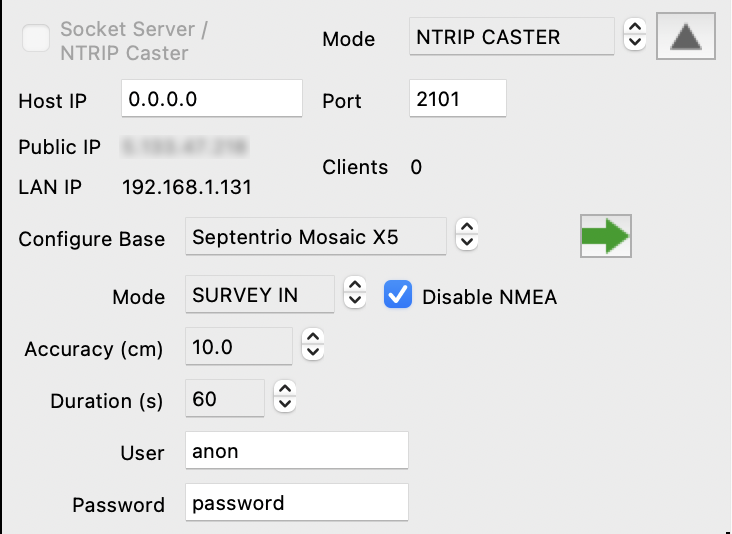
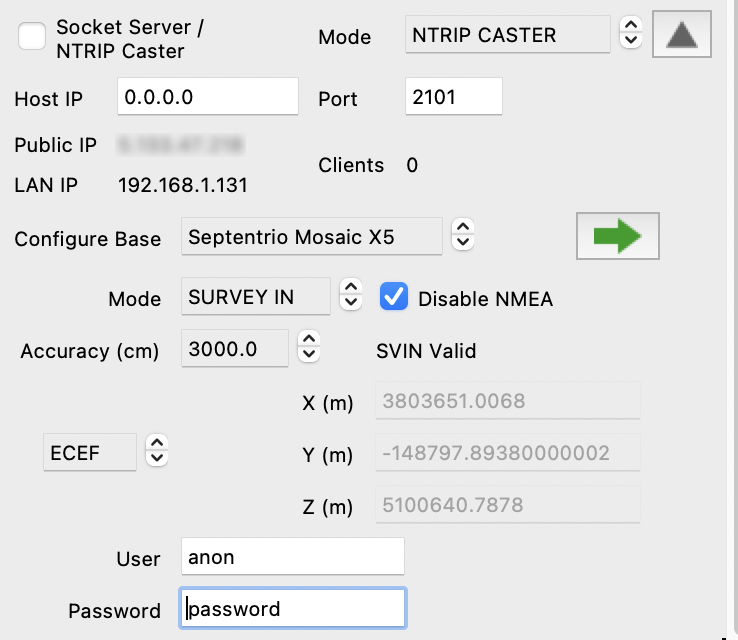
add base station location update

diff --git a/src/pygpsclient/serverconfig_frame.py b/src/pygpsclient/serverconfig_frame.py
@@ -41,7 +41,7 @@ from tkinter.ttk import Progressbar
 
 from PIL import Image, ImageTk
 from pygnssutils import RTCMTYPES
-from pynmeagps import SET, NMEAMessage, llh2ecef
+from pynmeagps import SET, NMEAMessage, ecef2llh, llh2ecef
 from pyubx2 import UBXMessage
 
 from pygpsclient.globals import (
@@ -159,7 +159,7 @@ class ServerConfigFrame(Frame):
         self.pos_mode = StringVar()
         self.fixedlat = DoubleVar()
         self.fixedlon = DoubleVar()
-        self.fixedalt = DoubleVar()
+        self.fixedhae = DoubleVar()
         self.disable_nmea = IntVar()
         self.user = StringVar()
         self.password = StringVar()
@@ -169,7 +169,7 @@ class ServerConfigFrame(Frame):
         self._sock_port_temp = SOCKSERVER_PORT
         self._fixed_lat_temp = 0
         self._fixed_lon_temp = 0
-        self._fixed_alt_temp = 0
+        self._fixed_hae_temp = 0
         self._pending_confs = {}
         self._quectel_restart = 0  # keep track of Quectel receiver restarts
 
@@ -382,13 +382,13 @@ class ServerConfigFrame(Frame):
             relief="sunken",
             width=18,
         )
-        self._lbl_fixedalt = Label(
+        self._lbl_fixedhae = Label(
             self._frm_advanced,
             text="Height (m)",
         )
-        self._ent_fixedalt = Entry(
+        self._ent_fixedhae = Entry(
             self._frm_advanced,
-            textvariable=self.fixedalt,
+            textvariable=self.fixedhae,
             relief="sunken",
             width=18,
         )
@@ -441,7 +441,7 @@ class ServerConfigFrame(Frame):
         self._on_posmode(None, None, "write")
         self.fixedlat.set(cfg.get("ntripcasterfixedlat_f"))
         self.fixedlon.set(cfg.get("ntripcasterfixedlon_f"))
-        self.fixedalt.set(cfg.get("ntripcasterfixedalt_f"))
+        self.fixedhae.set(cfg.get("ntripcasterfixedalt_f"))
         self.disable_nmea.set(cfg.get("ntripcasterdisablenmea_b"))
         self.sock_host.set(cfg.get("sockhost_s"))
         self._lbl_publicip.config(text=publicip())
@@ -453,7 +453,7 @@ class ServerConfigFrame(Frame):
         self._sock_port_temp = self.sock_port.get()
         self._fixed_lat_temp = self.fixedlat.get()
         self._fixed_lon_temp = self.fixedlon.get()
-        self._fixed_alt_temp = self.fixedalt.get()
+        self._fixed_hae_temp = self.fixedhae.get()
         self._bind_events(True)
 
     def _attach_events(self):
@@ -495,7 +495,7 @@ class ServerConfigFrame(Frame):
             self.duration,
             self.fixedlat,
             self.fixedlon,
-            self.fixedalt,
+            self.fixedhae,
             self.disable_nmea,
             self.user,
             self.password,
@@ -519,7 +519,7 @@ class ServerConfigFrame(Frame):
             cfg.set("ntripcasterduration_n", int(self.duration.get()))
             cfg.set("ntripcasterfixedlat_f", float(self.fixedlat.get()))
             cfg.set("ntripcasterfixedlon_f", float(self.fixedlon.get()))
-            cfg.set("ntripcasterfixedalt_f", float(self.fixedalt.get()))
+            cfg.set("ntripcasterfixedalt_f", float(self.fixedhae.get()))
             cfg.set("ntripcasterdisablenmea_b", self.disable_nmea.get())
             cfg.set("sockhost_s", self.sock_host.get())
             cfg.set("sockport_n", int(self.sock_port.get()))
@@ -567,7 +567,7 @@ class ServerConfigFrame(Frame):
             valid = valid & valid_entry(self._ent_sockport, VALINT, 1, MAXPORT)
             valid = valid & valid_entry(self._ent_fixedlat, VALFLOAT)
             valid = valid & valid_entry(self._ent_fixedlon, VALFLOAT)
-            valid = valid & valid_entry(self._ent_fixedalt, VALFLOAT)
+            valid = valid & valid_entry(self._ent_fixedhae, VALFLOAT)
             if valid:
                 self.__app.set_status("", INFOCOL)
             else:
@@ -580,7 +580,7 @@ class ServerConfigFrame(Frame):
             self._sock_port_temp = self.sock_port.get()
             self._fixed_lat_temp = self.fixedlat.get()
             self._fixed_lon_temp = self.fixedlon.get()
-            self._fixed_alt_temp = self.fixedalt.get()
+            self._fixed_hae_temp = self.fixedhae.get()
         else:  # stop server
             self.__app.stop_sockserver_thread()
             self.__app.stream_handler.sock_serve = False
@@ -601,11 +601,8 @@ class ServerConfigFrame(Frame):
             self._chk_disablenmea,
             self._spn_posmode,
             self._lbl_fixedlat,
-            self._ent_fixedlat,
             self._lbl_fixedlon,
-            self._ent_fixedlon,
-            self._lbl_fixedalt,
-            self._ent_fixedalt,
+            self._lbl_fixedhae,
             self._lbl_user,
             self._ent_user,
             self._lbl_password,
@@ -615,6 +612,16 @@ class ServerConfigFrame(Frame):
                 state = DISABLED
             else:
                 state = READONLY if isinstance(wid, Spinbox) else NORMAL
+            wid.config(state=state)
+        for wid in (
+            self._ent_fixedlat,
+            self._ent_fixedlon,
+            self._ent_fixedhae,
+        ):
+            if self._socket_serve.get():
+                state = DISABLED
+            else:
+                state = READONLY if self.base_mode.get() == BASE_SVIN else NORMAL
             wid.config(state=state)
         for wid in (self._btn_configure_base,):
             if self._socket_serve.get():
@@ -689,21 +696,19 @@ class ServerConfigFrame(Frame):
         self._lbl_acclimit.grid(column=0, row=2, padx=2, pady=1, sticky=E)
         self._spn_acclimit.grid(column=1, row=2, padx=2, pady=1, sticky=W)
         self._chk_disablenmea.grid(column=2, row=1, padx=2, pady=1, sticky=W)
-        self._lbl_duration.grid(column=0, row=3, padx=2, pady=1, sticky=E)
-        self._spn_duration.grid(column=1, row=3, padx=2, pady=1, sticky=W)
-        self._lbl_elapsed.grid(column=2, row=3, columnspan=2, padx=2, pady=1, sticky=W)
-        self._lbl_user.grid(column=0, row=4, padx=2, pady=1, sticky=E)
-        self._ent_user.grid(column=1, row=4, columnspan=2, padx=2, pady=1, sticky=W)
-        self._lbl_password.grid(column=0, row=5, padx=2, pady=1, sticky=E)
-        self._ent_password.grid(column=1, row=5, columnspan=2, padx=2, pady=1, sticky=W)
-        self._pgb_elapsed.grid_forget()
-        self._spn_posmode.grid_forget()
-        self._lbl_fixedlat.grid_forget()
-        self._ent_fixedlat.grid_forget()
-        self._lbl_fixedlon.grid_forget()
-        self._ent_fixedlon.grid_forget()
-        self._lbl_fixedalt.grid_forget()
-        self._ent_fixedalt.grid_forget()
+        self._spn_posmode.grid(column=0, row=3, rowspan=3, padx=2, pady=1, sticky=E)
+        self._lbl_fixedlat.grid(column=1, row=3, padx=2, pady=1, sticky=E)
+        self._ent_fixedlat.grid(column=2, row=3, columnspan=3, padx=2, pady=1, sticky=W)
+        self._lbl_fixedlon.grid(column=1, row=4, padx=2, pady=1, sticky=E)
+        self._ent_fixedlon.grid(column=2, row=4, columnspan=3, padx=2, pady=1, sticky=W)
+        self._lbl_fixedhae.grid(column=1, row=5, padx=2, pady=1, sticky=E)
+        self._ent_fixedhae.grid(column=2, row=5, columnspan=3, padx=2, pady=1, sticky=W)
+        self._lbl_user.grid(column=0, row=6, padx=2, pady=1, sticky=E)
+        self._ent_user.grid(column=1, row=6, columnspan=2, padx=2, pady=1, sticky=W)
+        self._lbl_password.grid(column=0, row=7, padx=2, pady=1, sticky=E)
+        self._ent_password.grid(column=1, row=7, columnspan=2, padx=2, pady=1, sticky=W)
+        for wid in self._ent_fixedlat, self._ent_fixedlon, self._ent_fixedhae:
+            wid.config(state=DISABLED)
 
     def _on_basemode_fixed(self):
         """
@@ -718,8 +723,8 @@ class ServerConfigFrame(Frame):
         self._ent_fixedlat.grid(column=2, row=3, columnspan=3, padx=2, pady=1, sticky=W)
         self._lbl_fixedlon.grid(column=1, row=4, padx=2, pady=1, sticky=E)
         self._ent_fixedlon.grid(column=2, row=4, columnspan=3, padx=2, pady=1, sticky=W)
-        self._lbl_fixedalt.grid(column=1, row=5, padx=2, pady=1, sticky=E)
-        self._ent_fixedalt.grid(column=2, row=5, columnspan=3, padx=2, pady=1, sticky=W)
+        self._lbl_fixedhae.grid(column=1, row=5, padx=2, pady=1, sticky=E)
+        self._ent_fixedhae.grid(column=2, row=5, columnspan=3, padx=2, pady=1, sticky=W)
         self._lbl_user.grid(column=0, row=6, padx=2, pady=1, sticky=E)
         self._ent_user.grid(column=1, row=6, columnspan=2, padx=2, pady=1, sticky=W)
         self._lbl_password.grid(column=0, row=7, padx=2, pady=1, sticky=E)
@@ -728,6 +733,8 @@ class ServerConfigFrame(Frame):
         self._spn_duration.grid_forget()
         self._pgb_elapsed.grid_forget()
         self._lbl_elapsed.grid_forget()
+        for wid in self._ent_fixedlat, self._ent_fixedlon, self._ent_fixedhae:
+            wid.config(state=NORMAL)
         self._set_coords(self.pos_mode.get())
 
     def _on_basemode_disabled(self):
@@ -743,8 +750,8 @@ class ServerConfigFrame(Frame):
         self._ent_fixedlat.grid_forget()
         self._lbl_fixedlon.grid_forget()
         self._ent_fixedlon.grid_forget()
-        self._lbl_fixedalt.grid_forget()
-        self._ent_fixedalt.grid_forget()
+        self._lbl_fixedhae.grid_forget()
+        self._ent_fixedhae.grid_forget()
         self._lbl_duration.grid_forget()
         self._spn_duration.grid_forget()
         self._pgb_elapsed.grid_forget()
@@ -767,7 +774,7 @@ class ServerConfigFrame(Frame):
         )
         self._lbl_fixedlat.config(text=lbls[0])
         self._lbl_fixedlon.config(text=lbls[1])
-        self._lbl_fixedalt.config(text=lbls[2])
+        self._lbl_fixedhae.config(text=lbls[2])
         self._set_coords(self.pos_mode.get())
         self.__app.configuration.set("ntripcasterposmode_s", self.pos_mode.get())
 
@@ -782,19 +789,19 @@ class ServerConfigFrame(Frame):
 
         lat = self._fixed_lat_temp
         lon = self._fixed_lon_temp
-        alt = self._fixed_alt_temp
-        if lat in ("", "0", 0) and lon in ("", "0", 0) and alt in ("", "0", 0):
+        hae = self._fixed_hae_temp
+        if lat in ("", "0", 0) and lon in ("", "0", 0) and hae in ("", "0", 0):
             # live position
             status = self.__app.get_coordinates()
-            lat, lon, alt = status["lat"], status["lon"], status["alt"]
+            lat, lon, hae = status["lat"], status["lon"], status["hae"]
         try:
             if posmode == POS_ECEF:
-                lat, lon, alt = llh2ecef(lat, lon, alt)
+                lat, lon, hae = llh2ecef(lat, lon, hae)
         except TypeError:  # e.g. no fix
-            lat = lon = alt = 0.0
+            lat = lon = hae = 0.0
         self.fixedlat.set(lat)
         self.fixedlon.set(lon)
-        self.fixedalt.set(alt)
+        self.fixedhae.set(hae)
 
     @property
     def clients(self) -> int:
@@ -830,7 +837,7 @@ class ServerConfigFrame(Frame):
                 self.acclimit.get(),
                 self.fixedlat.get(),
                 self.fixedlon.get(),
-                self.fixedalt.get(),
+                self.fixedhae.get(),
             )
         else:  # DISABLED
             cmds = self._config_disable()
@@ -1292,3 +1299,23 @@ class ServerConfigFrame(Frame):
             # reset all confirmation flags for this frame
             self._pending_confs.pop(PQTMVER)
             self._on_quectel_restart()
+
+    def update_base_location(self):
+        """
+        Update base station location from RTCM 1005/6 message after Survey-in.
+        """
+
+        if self.base_mode.get() in (BASE_FIXED, BASE_SVIN):
+            if self.pos_mode.get() == POS_ECEF:
+                self.fixedlat.set(self.__app.gnss_status.base_ecefx)
+                self.fixedlon.set(self.__app.gnss_status.base_ecefy)
+                self.fixedhae.set(self.__app.gnss_status.base_ecefz)
+            else:
+                lat, lon, hae = ecef2llh(
+                    self.__app.gnss_status.base_ecefx,
+                    self.__app.gnss_status.base_ecefy,
+                    self.__app.gnss_status.base_ecefz,
+                )
+                self.fixedlat.set(round(lat, 8))
+                self.fixedlon.set(round(lon, 8))
+                self.fixedhae.set(round(hae, 4))

diff --git a/src/pygpsclient/rtcm3_handler.py b/src/pygpsclient/rtcm3_handler.py
@@ -66,11 +66,21 @@ class RTCM3Handler:
 
         try:
             self.__app.gnss_status.diff_station = parsed.DF003
-            lat1 = self.__app.gnss_status.lat
-            lon1 = self.__app.gnss_status.lon
+            self.__app.gnss_status.base_ecefx = parsed.DF025
+            self.__app.gnss_status.base_ecefy = parsed.DF026
+            self.__app.gnss_status.base_ecefz = parsed.DF027
             lat2, lon2, _ = ecef2llh(parsed.DF025, parsed.DF026, parsed.DF027)
             self.__app.gnss_status.rel_pos_length = (
-                haversine(lat1, lon1, lat2, lon2) * 100000
+                haversine(
+                    self.__app.gnss_status.lat,
+                    self.__app.gnss_status.lon,
+                    lat2,
+                    lon2,
+                )
+                * 100000
             )  # km to cm
+            # update Survey-In base station location
+            if self.__app.frm_settings.frm_socketserver is not None:
+                self.__app.frm_settings.frm_socketserver.update_base_location()
         except (AttributeError, ValueError):
             pass

diff --git a/src/pygpsclient/app.py b/src/pygpsclient/app.py
@@ -791,12 +791,16 @@ class App(Frame):
         :rtype: dict
         """
 
-        sep = self.gnss_status.hae - self.gnss_status.alt
+        try:
+            sep = self.gnss_status.hae - self.gnss_status.alt
+        except TypeError:
+            sep = 0
         return {
             "connection": self._conn_status,
             "lat": self.gnss_status.lat,
             "lon": self.gnss_status.lon,
-            "alt": self.gnss_status.alt,
+            "alt": self.gnss_status.alt,  # hmsl
+            "hae": self.gnss_status.hae,
             "sep": sep,
             "sip": self.gnss_status.sip,
             "fix": self.gnss_status.fix,

diff --git a/src/pygpsclient/gnss_status.py b/src/pygpsclient/gnss_status.py
@@ -44,6 +44,9 @@ class GNSSStatus:
         self.diff_corr = 0  # DGPS correction status True/False
         self.diff_age = 0  # DGPS correction age seconds
         self.diff_station = "N/A"  # DGPS station id
+        self.base_ecefx = 0.0  # base station ECEF X
+        self.base_ecefy = 0.0  # base station ECEF Y
+        self.base_ecefz = 0.0  # base station ECEF Z
         self.rel_pos_heading = 0.0  # rover relative position heading
         self.rel_pos_length = 0.0  # rover relative position distance
         self.acc_heading = 0.0  # rover relative position heading accuracy

diff --git a/README.md b/README.md
@@ -521,8 +521,8 @@ By default, the server/caster binds to the host address '0.0.0.0' (IPv4) or '::'
 
 | Configuration Settings | Base Station Mode    |
 |------------------------------------------------------|---------------------------------------------------------|
-| ![basestation config](https://github.com/semuconsulting/PyGPSClient/blob/master/images/basestation_fixed.png?raw=true) | **FIXED**. In this mode, the known base station coordinates (*Antenna Reference Point or ARP*) are specified in either LLH or ECEF (X,Y,Z) format. The coordinates are pre-populated with the receiver's current navigation solution (if available), but these can (and normally should) be overridden with accurately surveyed values. If the coordinates are accepted, the UBX Fix status will change to `TIME ONLY` and the receiver will start outputting RTCM `1005` or `1006` (*Antenna Reference Point or ARP*) messages containing the base station location in ECEF (X,Y,Z) format. |
-| ![basestation config](https://github.com/semuconsulting/PyGPSClient/blob/master/images/basestation_svin.png?raw=true)  | **SURVEY-IN**. In this mode, the base station coordinates are derived from the receiver's current navigation solution, provided the prescribed level of accuracy is met within the specified survey duration. If the survey is successful, the UBX NAV-SVIN monitoring message will indicate `valid=1, active=0`, the UBX Fix status will change to `TIME ONLY` and the receiver will start outputting RTCM `1005` or `1006` messages containing the base station location in ECEF (X,Y,Z) format. |
+| ![basestation config](https://github.com/semuconsulting/PyGPSClient/blob/master/images/basestation_fixed.png?raw=true) | **FIXED**. In this mode, the known base station coordinates (*Antenna Reference Point or ARP*) are specified in either LLH or ECEF (X,Y,Z) format. The coordinates are pre-populated with the receiver's current navigation solution (if available), but these can (and normally should) be overridden with accurately surveyed values. If the coordinates are accepted, the Fix status will change to `TIME ONLY` and the receiver will start outputting RTCM `1005` or `1006` (*Antenna Reference Point or ARP*) messages containing the base station location in ECEF (X,Y,Z) format. |
+| ![basestation config](https://github.com/semuconsulting/PyGPSClient/blob/master/images/basestation_svin.png?raw=true)  | **SURVEY-IN**. In this mode, the base station coordinates are derived from the receiver's current navigation solution, provided the prescribed level of accuracy is met within the specified survey duration. If the survey is successful, the Fix status will change to `TIME ONLY` and the receiver will start outputting RTCM `1005` or `1006` messages containing the base station location in ECEF (X,Y,Z) format. The surveyed base station location will be updated from the position provided by these RTCM `1005` or `1006` messages.|
 | ![basestation config](https://github.com/semuconsulting/PyGPSClient/blob/master/images/basestation_off.png?raw=true)  | **DISABLED**. Disable base station operation. |
 
 **NB:** To operate effectively as an RTK Base Station, antenna positioning is of paramount importance. Refer to the following links for advice:

diff --git a/RELEASE_NOTES.md b/RELEASE_NOTES.md
@@ -9,6 +9,7 @@ FIXES:
 ENHANCEMENTS:
 
 1. Add support for Septentrio Mosaic X5 Base Station configuration in NTRIP Caster mode (supplementing the existing u-blox ZED-F9P and Quectel LG290P options). Note that the Mosaic X5 is configured via ASCII TTY commands - to monitor the responses, set the console protocol to "TTY" (*remember to set it back to "RTCM" to monitor the RTCM3 output*). Note also that the input (ASCII command) UART port may be different to the output (RTCM3) port - ensure you select the appropriate port(s) when configuring the receiver and monitoring the RTCM3 output.
+1. Add base station location update  - automatically updates NTRIP CASTER Survey-in base station location from RTCM 1005/6 message.
 1. Chart Plot widget streamlined to reduce memory footprint and simplify CSV cut-and-paste (double-right-click) function.
 1. Minor enhancements to `ubx2preset()` and `nmea2preset()` helper functions; added `\examples\convert_ubx_preset.py` example.
 
